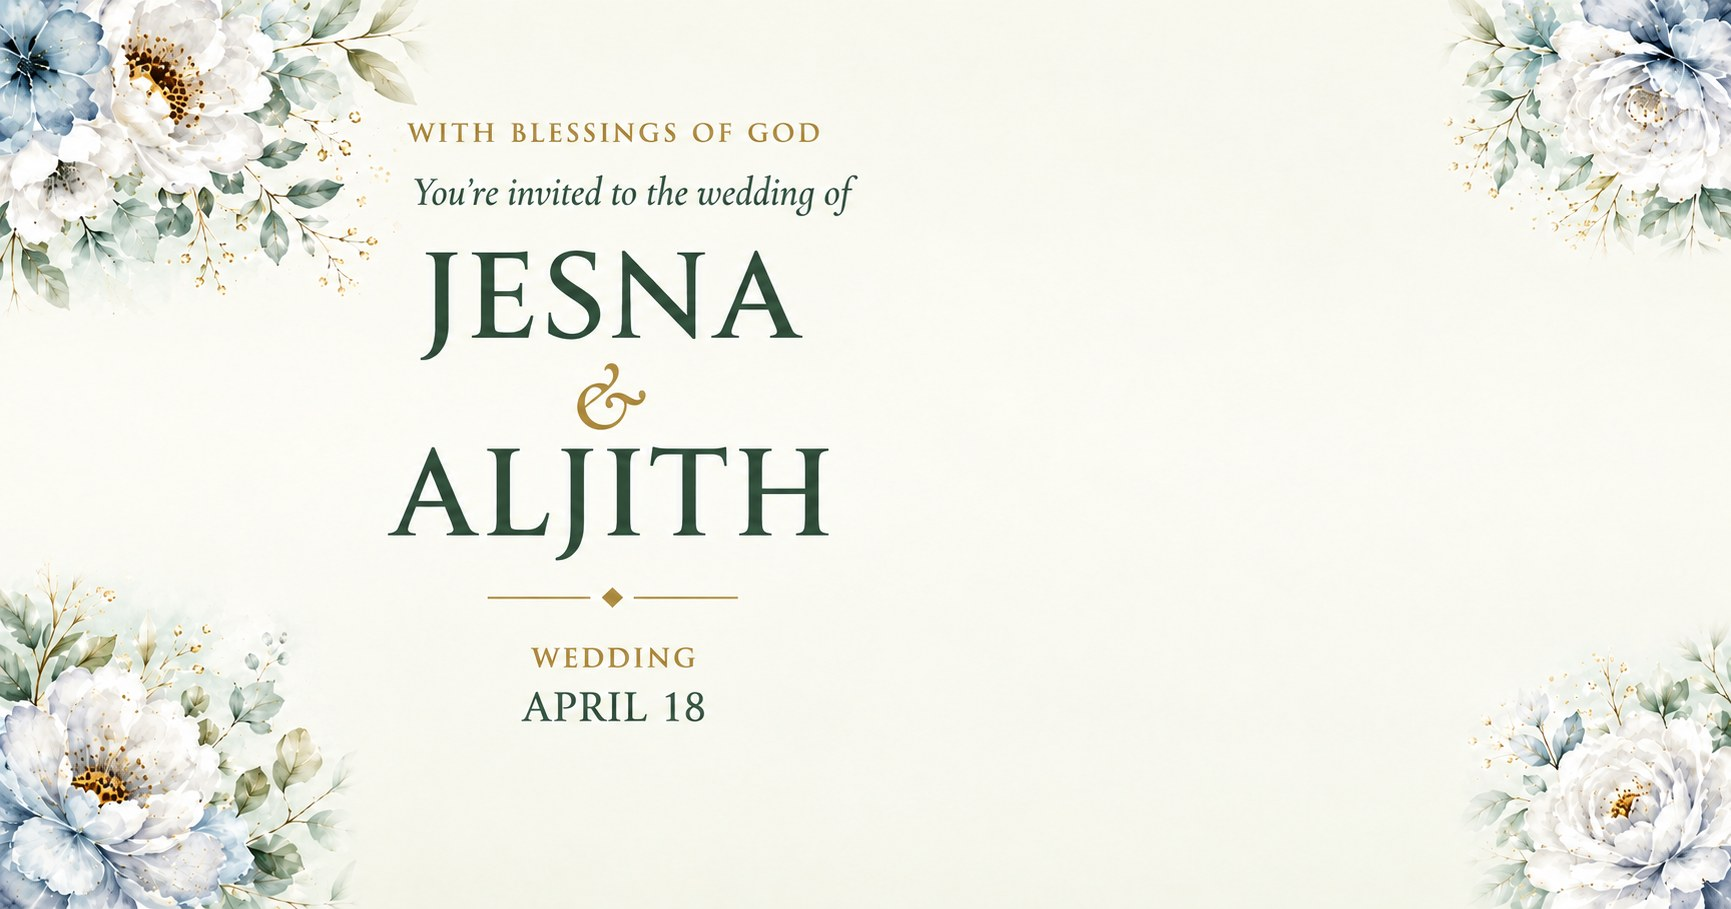
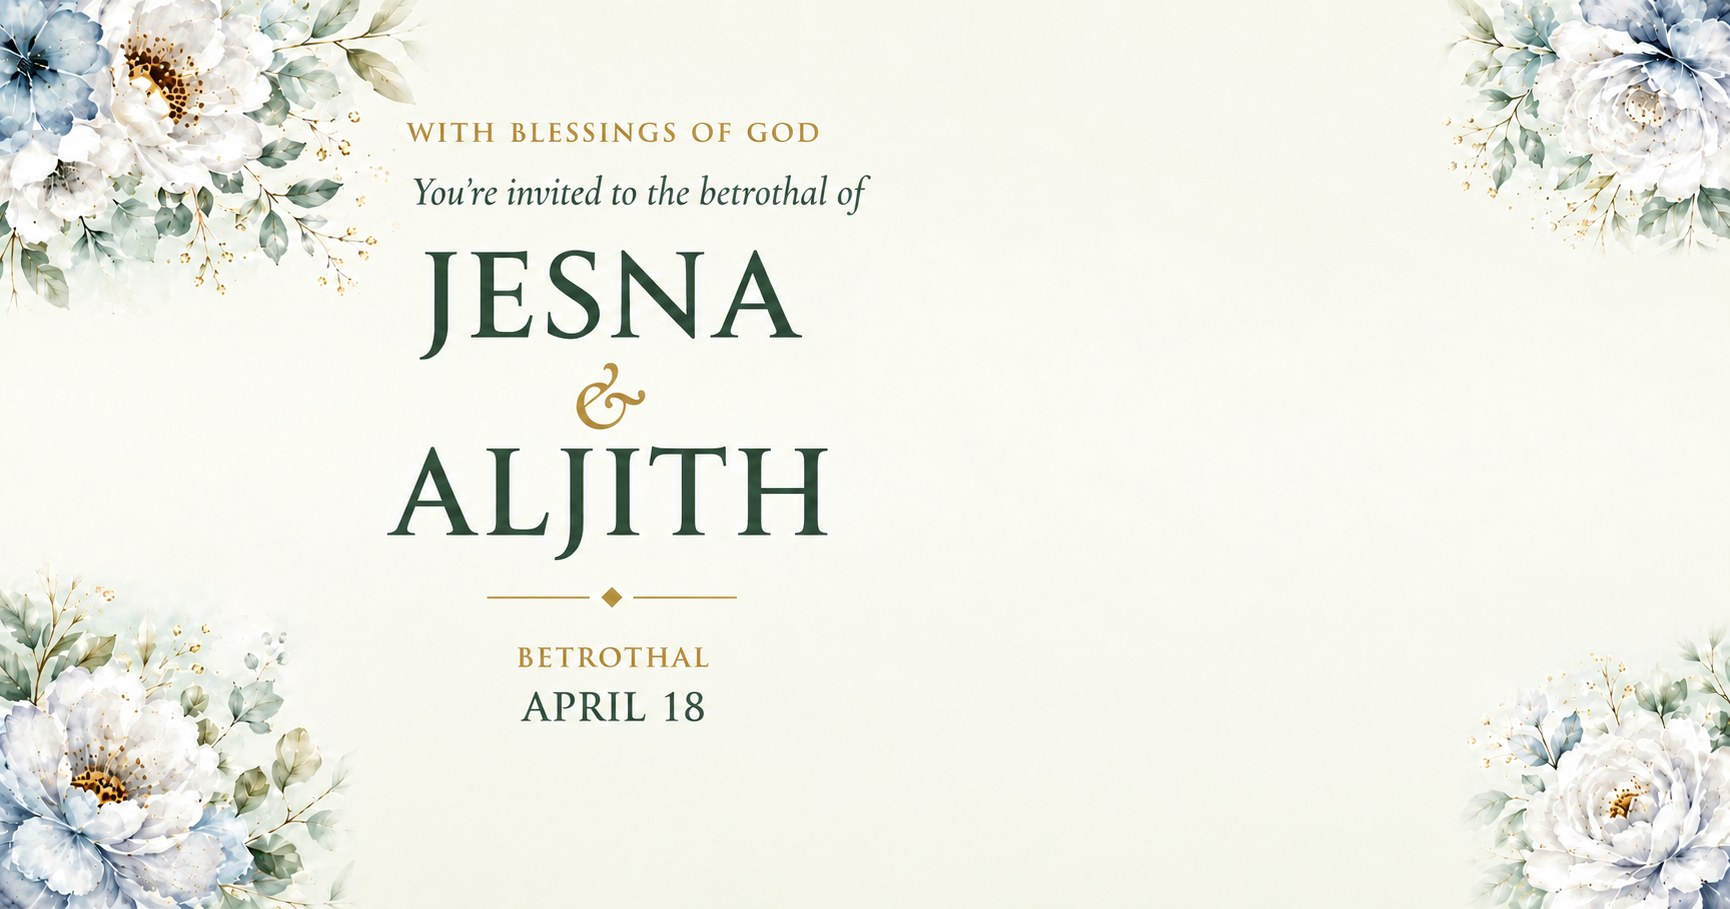
sdfghjk

diff --git a/index.html b/index.html
@@ -1,22 +1,33 @@
 <!DOCTYPE html>
-<html lang="en">
+<html lang="en" prefix="og: http://ogp.me/ns#">
 <head>
 <meta charset="UTF-8">
 <meta name="viewport" content="width=device-width, initial-scale=1.0">
 <title>With Blessings of God — Jesna &amp; Aljith | Betrothal Invitation</title>
 <meta name="description" content="With blessings of God, you're invited to the Christian betrothal of Jesna &amp; Aljith — 18th April: Betrothal Mass at 4:30 PM, St. Jude Church, Heggala; Reception at 7:30 PM, St. Anne's Church Hall, Virajpet.">
+<link rel="canonical" href="https://jesna-aljith.vercel.app/">
 
-<!-- Open Graph -->
-<meta property="og:title" content="With Blessings of God — Jesna &amp; Aljith | Betrothal Invitation">
-<meta property="og:description" content="You're invited to the betrothal of Jesna &amp; Aljith — 18th April: Betrothal Mass 4:30 PM, St. Jude Church, Heggala; Reception 7:30 PM, St. Anne's Church Hall, Virajpet.">
+<!-- Open Graph / Facebook / WhatsApp -->
+<meta property="og:site_name" content="Jesna &amp; Aljith">
 <meta property="og:type" content="website">
 <meta property="og:url" content="https://jesna-aljith.vercel.app/">
+<meta property="og:title" content="With Blessings of God — Jesna &amp; Aljith | Betrothal Invitation">
+<meta property="og:description" content="You're invited to the betrothal of Jesna &amp; Aljith — 18th April: Betrothal Mass 4:30 PM, St. Jude Church, Heggala; Reception 7:30 PM, St. Anne's Church Hall, Virajpet.">
 <meta property="og:image" content="https://jesna-aljith.vercel.app/og.jpg">
 <meta property="og:image:secure_url" content="https://jesna-aljith.vercel.app/og.jpg">
 <meta property="og:image:type" content="image/jpeg">
 <meta property="og:image:width" content="1200">
 <meta property="og:image:height" content="630">
 <meta property="og:image:alt" content="Jesna &amp; Aljith Betrothal Invitation">
+<meta property="og:locale" content="en_US">
+
+<!-- Schema / WhatsApp fallback -->
+<meta itemprop="name" content="With Blessings of God — Jesna &amp; Aljith | Betrothal Invitation">
+<meta itemprop="description" content="You're invited to the betrothal of Jesna &amp; Aljith — 18th April: Betrothal Mass 4:30 PM, St. Jude Church, Heggala; Reception 7:30 PM, St. Anne's Church Hall, Virajpet.">
+<meta itemprop="image" content="https://jesna-aljith.vercel.app/og.jpg">
+<link rel="image_src" href="https://jesna-aljith.vercel.app/og.jpg">
+
+<!-- Twitter -->
 <meta name="twitter:card" content="summary_large_image">
 <meta name="twitter:title" content="With Blessings of God — Jesna &amp; Aljith | Betrothal Invitation">
 <meta name="twitter:description" content="You're invited to the betrothal of Jesna &amp; Aljith — 18th April: Betrothal Mass 4:30 PM, St. Jude Church, Heggala; Reception 7:30 PM, St. Anne's Church Hall, Virajpet.">
